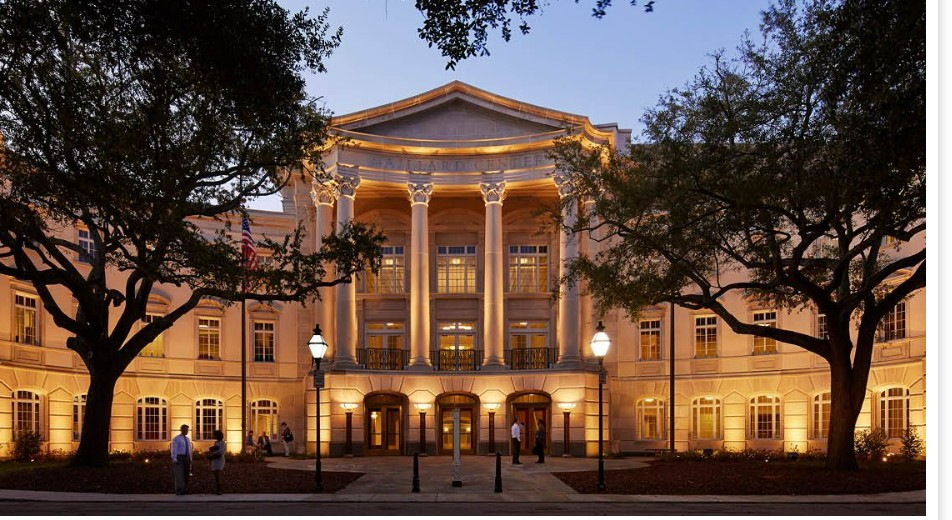
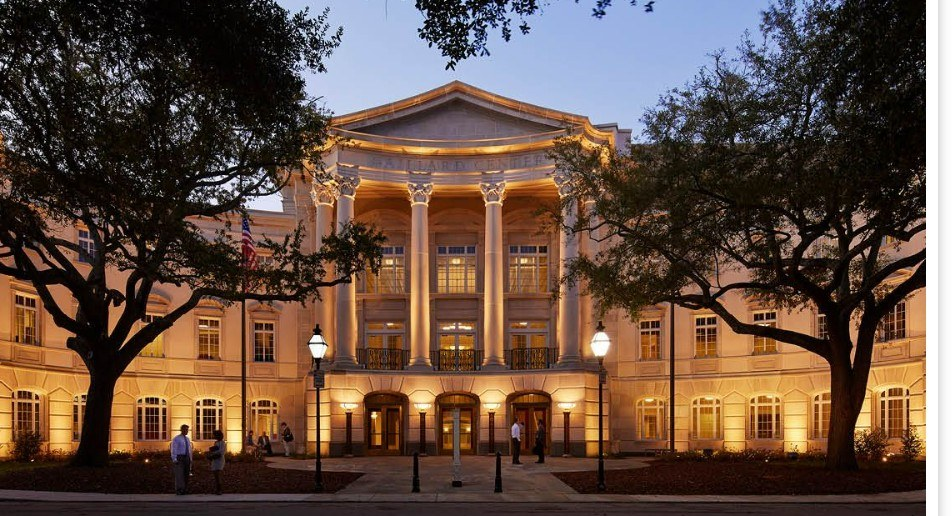
Crop a white strip off the Gaillard images; trim the venue copy
Both Gaillard exports carried 4 near-white rows at the bottom edge (mean
brightness 254 against ~42 for the rows above), which rendered as a white
line under the venue image. Cropped 520 -> 516. Fixed the B&W version too;
nothing uses it yet, but it has the same defect.

Drop the coffered ceilings / wainscoting / plaster / acoustics detail. The
photograph beside it already shows the room is beautiful, so the prose was
describing what the image says better.

Changed region(s): [[0.0, 0.062, 0.9748, 1.0], [0.4569, 0.062, 0.5179, 0.124], [0.9139, 0.2171, 0.9443, 0.2481]]

diff --git a/index.html b/index.html
@@ -103,7 +103,7 @@
           <div class="order-2 lg:order-1">
             <p class="sans label text-[10px] uppercase tracking-[0.3em]">The Venue</p>
             <h2 class="mt-3 text-2xl font-semibold leading-tight text-white sm:text-3xl">Grand Ballroom<br class="hidden sm:block" /> Charleston Gaillard Center</h2>
-            <p class="sans mt-4 text-base leading-8 text-white/60">The Grand Ballroom at the Gaillard Center is among the largest and most refined ballrooms in Charleston &mdash; coffered ceilings, beige wainscoting, Wedgewood blue plaster, and a room engineered for acoustics. The Center is home to Spoleto Festival USA, the Charleston Symphony, and the Lowcountry Jazz Festival, and welcomes more than 200,000 visitors a year.</p>
+            <p class="sans mt-4 text-base leading-8 text-white/60">The Grand Ballroom at the Gaillard Center is among the largest and most refined ballrooms in Charleston. The Center is home to Spoleto Festival USA, the Charleston Symphony, and the Lowcountry Jazz Festival, and welcomes more than 200,000 visitors a year.</p>
             <div class="mt-6 border border-white/10 bg-[#111] p-4">
               <p class="sans label text-[10px] uppercase tracking-[0.25em]">Arriving at the Gaillard</p>
               <p class="sans mt-2 text-sm leading-7 text-white/60">95 Calhoun Street. There is garage parking on site. The Gaillard is walking distance from King Street and most of Charleston&rsquo;s downtown hotels.</p>